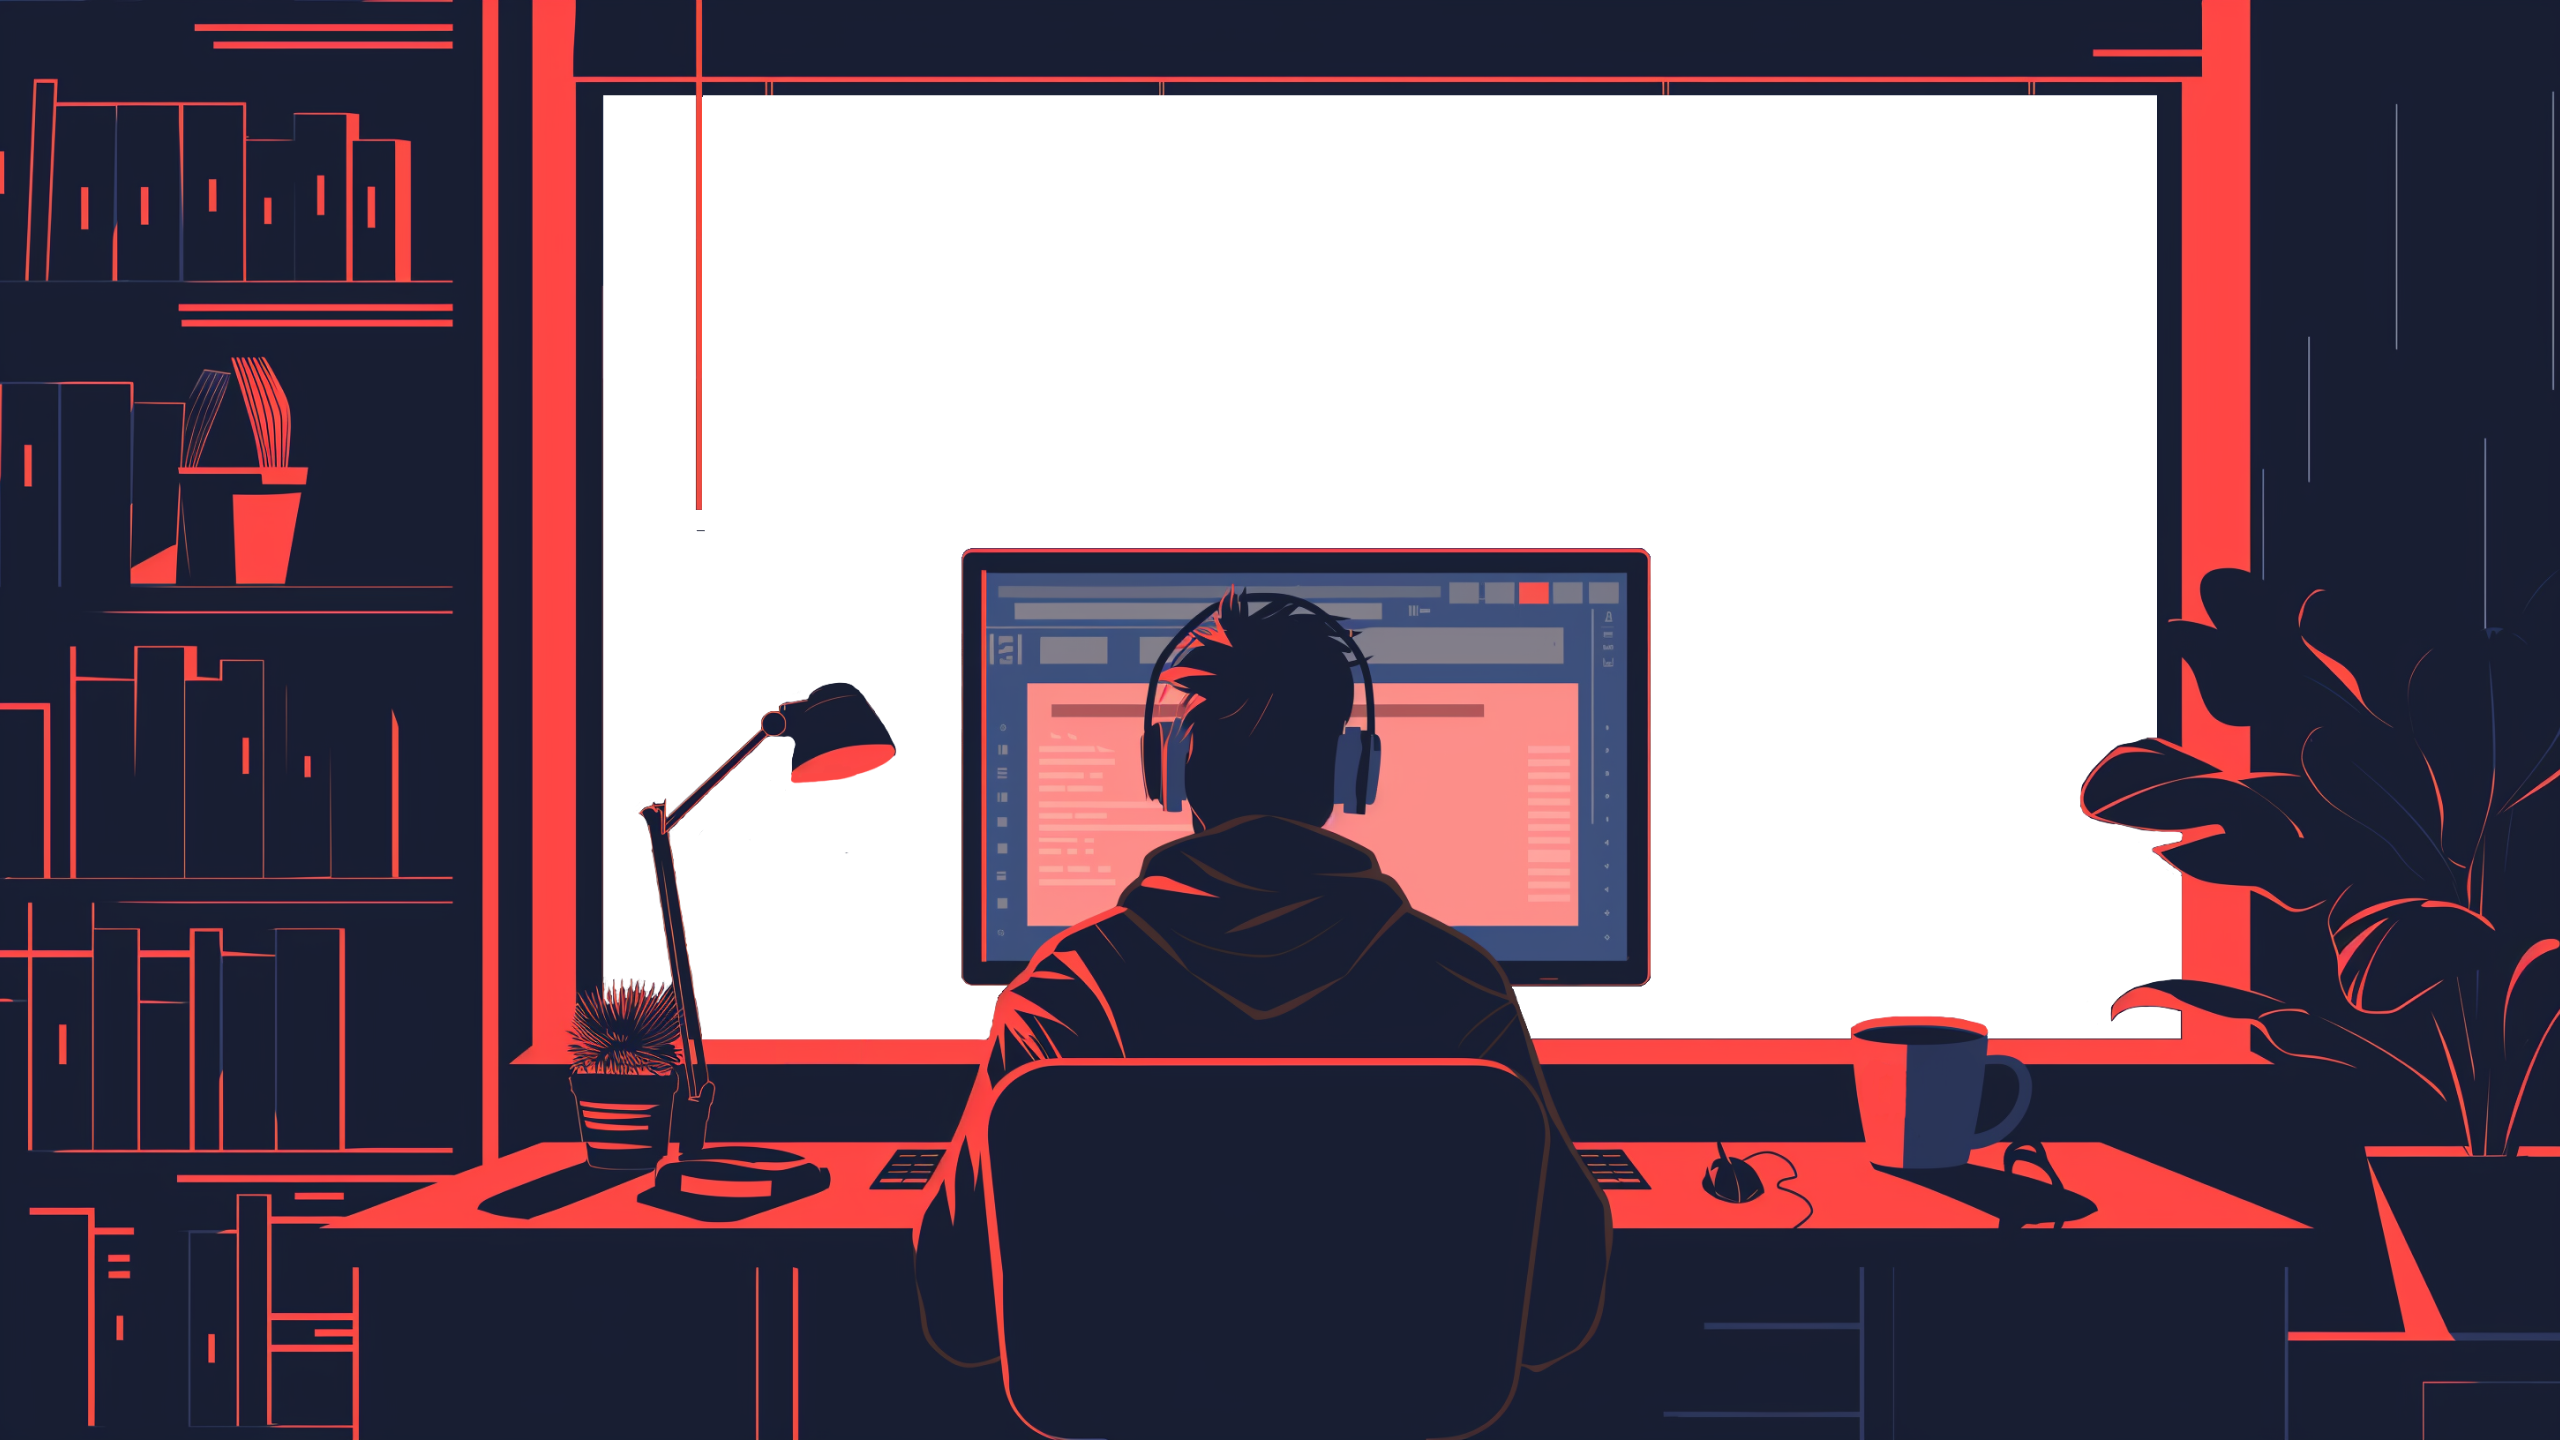
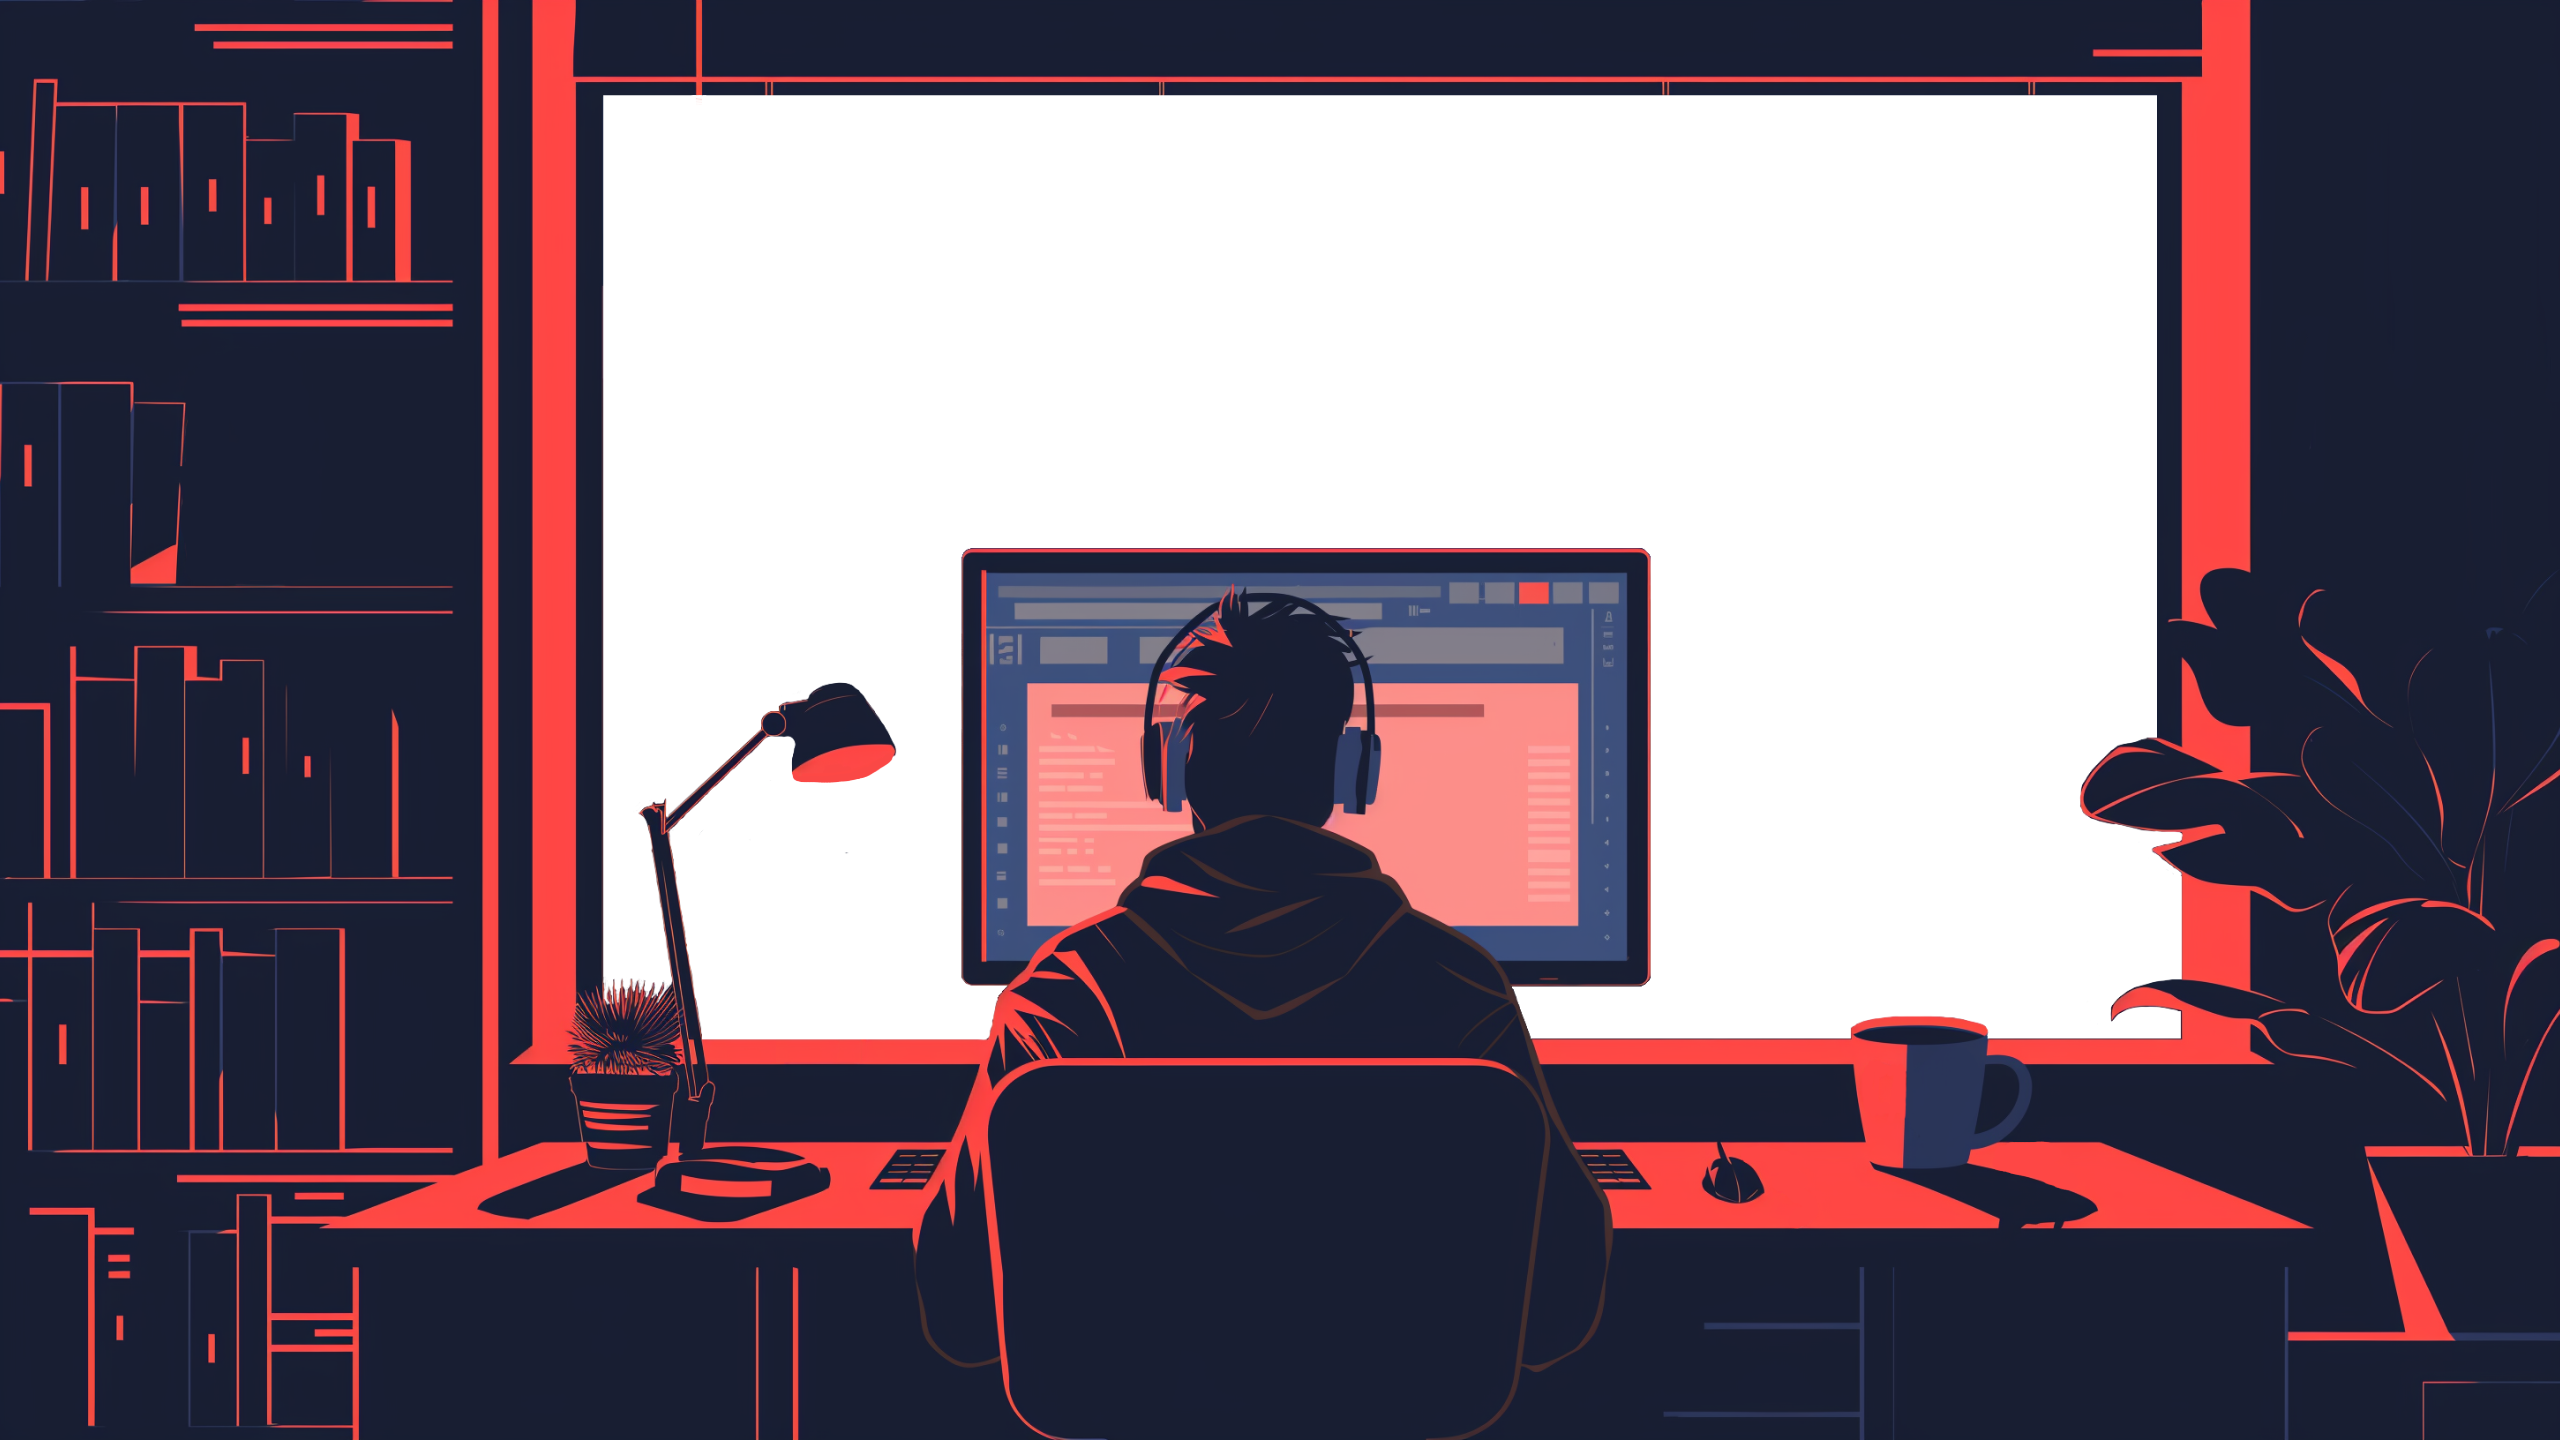
rain effect addition

Changed region(s): [[0.0625, 0.25, 0.125, 0.4062], [0.7812, 0.7812, 0.8125, 0.8125]]

diff --git a/components/hero.tsx b/components/hero.tsx
@@ -1,6 +1,5 @@
 "use client";
 
-import { Transition } from "@headlessui/react";
 import React from "react";
 import { useInView } from "react-intersection-observer";
 
@@ -14,36 +13,6 @@ export const Hero: React.FC = () => {
   return (
     <div ref={ref} className="flex h-screen min-h-screen flex-col">
       <HeroBackground />
-
-      <div className="absolute bottom-0 left-0 right-0 top-0 z-20 mx-auto flex flex-col items-center justify-center">
-        <div className="break-words rounded-lg bg-background/25 px-8 py-5 sm:px-32">
-          <div className="pb-5 text-center text-6xl font-light tracking-wider sm:text-8xl">
-            NIRO
-          </div>
-          <div className="h-0.5">
-            <Transition
-              show={inView}
-              enter="transition ease-in-out duration-300 transform"
-              enterFrom="scale-0"
-              enterTo="scale-100"
-              leave="transition ease-in-out duration-300 transform"
-              leaveFrom="scale-100"
-              leaveTo="scale-0"
-            >
-              <div
-                className="shadow-bg m-auto h-0.5 w-full border-b-primary/70 bg-primary"
-                style={{ boxShadow: "0 0 10px" }}
-              ></div>
-            </Transition>
-          </div>
-          <div className="pt-5 text-center text-3xl font-extralight tracking-wide sm:text-4xl">
-            Just another <br />
-            <span className="font-light text-primary">&#8217;&#8217;</span>
-            Developer
-            <span className="font-light text-primary">&#8217;&#8217;</span>
-          </div>
-        </div>
-      </div>
     </div>
   );
 };

diff --git a/components/hero-background.tsx b/components/hero-background.tsx
@@ -3,23 +3,25 @@ import { ScrollContext } from "@/lib/scroll-observer";
 import Image from "next/image";
 import { useContext, useEffect, useRef } from "react";
 import { useInView } from "react-intersection-observer";
+import { Rain } from "./rain";
 
 export default function HeroBackground() {
   const { ref, inView, entry } = useInView({
     threshold: 0
   });
-  const { hero_foreground_blur, hero_background_blur } = blur_data;
+  const { hero_foreground_blur } = blur_data;
 
   const parallaxContainer = useRef(null);
   const { scrollY } = useContext(ScrollContext);
   useEffect(() => {
     if (!parallaxContainer.current) return;
     const background: HTMLDivElement = parallaxContainer.current;
-    background.style.transform = `translate3d(0, -${scrollY * 0.15}px, 0)`;
+    background.style.transform = `translate3d(0, -${scrollY * 0.2}px, 0)`;
   }, [scrollY]);
 
   return (
-    <div className="relative h-full" ref={ref}>
+    <div className="relative flex h-full justify-center" ref={ref}>
+      <Rain />
       <Image
         src={"/images/hero/hero-foreground.png"}
         placeholder="blur"
@@ -32,10 +34,9 @@ export default function HeroBackground() {
       <Image
         src={"/images/hero/hero-city-background.jpg"}
         ref={parallaxContainer}
-        className="-z-10 object-cover"
-        placeholder="blur"
-        blurDataURL={hero_background_blur}
         fill
+        quality={50}
+        className="z-0 object-cover"
         alt="hero"
       />
     </div>

diff --git a/components/nav/nav.tsx b/components/nav/nav.tsx
@@ -35,7 +35,12 @@ const Navbar: React.FC = () => {
   ];
   return (
     <div
-      className={`fixed z-50 flex w-1/2 transform flex-col justify-between pt-5 transition-all duration-500 ${scrollY > 400 ? "translate-x-full items-end gap-2" : "translate-x-1/2 items-center gap-5"}`}
+      className={`fixed z-50 flex w-4/5 transform flex-col justify-between pt-5 transition-all duration-500 lg:w-1/2
+      ${
+        scrollY > 400
+          ? "translate-x-full items-end gap-2"
+          : "translate-x-4/5 items-center gap-5 lg:translate-x-1/2 "
+      }`}
     >
       {/* Logo */}
       <div
@@ -52,13 +57,13 @@ const Navbar: React.FC = () => {
         </Link>
       </div>
       <div
-        className={`rounded-br-xl rounded-tl-xl border-y  transition-colors duration-500 ${
+        className={`rounded-br-xl rounded-tl-xl border-y transition-colors duration-500 ${
           scrollY > 400
             ? "border-y-primary/50 text-xl md:bg-background/50 "
             : "border-y-primary/75 text-2xl font-normal md:bg-background "
         }`}
       >
-        <div className="z-0 hidden pe-8 md:grid md:grid-cols-5 md:justify-items-end md:gap-7 md:py-3">
+        <div className="hidden pe-8 md:grid md:grid-cols-5 md:justify-items-end md:gap-7 md:py-3">
           {header_components.map((link) =>
             link.subPages == undefined ? (
               <NavLink key={link.title} title={link.title} href={link.href} />

diff --git a/components/rain.tsx b/components/rain.tsx
@@ -1,0 +1,32 @@
+"use client";
+import "@/styles/rain.css";
+import React, { useEffect, useRef } from "react";
+function randRange(min: number, max: number) {
+  return Math.floor(Math.random() * (max - min + 1)) + min;
+}
+export const Rain: React.FC = () => {
+  const rainContainer = useRef<HTMLDivElement | null>(null);
+  const nbDrop = 100;
+  useEffect(() => {
+    if (rainContainer.current) {
+      for (let i = 1; i < nbDrop; i++) {
+        const dropLeft = randRange(200, 1800);
+        const dropTop = randRange(-1300, 800);
+
+        const drop = document.createElement("div");
+        drop.className = "drop";
+        drop.id = `drop${i}`;
+        drop.style.left = `${dropLeft}px`;
+        drop.style.top = `${dropTop}px`;
+
+        rainContainer.current.appendChild(drop);
+      }
+    }
+  }, []);
+
+  return (
+    <div className="z-10 h-full w-full">
+      <div className="rain h-full w-full" ref={rainContainer}></div>
+    </div>
+  );
+};

diff --git a/app/page.tsx b/app/page.tsx
@@ -1,19 +1,20 @@
-import { AboutMe } from "@/components/about-me";
-import { CurrentStack } from "@/components/current-stack";
 import { Hero } from "@/components/hero";
-import { LatestProjects } from "@/components/latest-projects";
 
 export default function Home() {
   return (
     <main>
       <Hero />
+      <div className="z-20 min-h-screen">a</div>
+      <div className="min-h-screen bg-secondary">b</div>
+      <div className="min-h-screen bg-primary">c</div>
+      {/* <Hero />
       <div className="min-h-screen bg-gradient-to-b from-slate-900 via-slate-900 to-primary/50">
         <AboutMe />
       </div>
       <div className="min-h-screen ">
         <LatestProjects />
       </div>
-      <CurrentStack />
+      <CurrentStack /> */}
     </main>
   );
 }

diff --git a/app/layout.tsx b/app/layout.tsx
@@ -1,4 +1,3 @@
-import Navbar from "@/components/nav/nav";
 import ScrollObserver from "@/lib/scroll-observer";
 import "@/styles/globals.css";
 import "@/styles/prism-coldark-dark.css";
@@ -24,7 +23,7 @@ export default function RootLayout({
       <ScrollObserver>
         <StrictMode>
           <body className={`scroll-smooth bg-background ${inter.className}`}>
-            <Navbar />
+            {/* <Navbar /> */}
             {children}
             <Toaster />
           </body>

diff --git a/styles/rain.css b/styles/rain.css
@@ -1,0 +1,18 @@
+.drop {
+  background: linear-gradient(
+    to bottom,
+    rgba(13, 52, 58, 1) 0%,
+    rgba(255, 255, 255, 0.6) 100%
+  );
+  width: 1px;
+  height: 89px;
+  position: absolute;
+  bottom: 200px;
+  animation: fall 1.15s linear infinite;
+}
+
+@keyframes fall {
+  to {
+    margin-top: 1100px;
+  }
+}

diff --git a/data/header-components.ts b/data/header-components.ts
@@ -4,7 +4,7 @@ const header_components: {
   subPages?: { title: string; href: string }[];
 }[] = [
   { title: "Home", href: "/#" },
-  { title: "About me", href: "/#about" },
+  { title: "About", href: "/#about" },
   { title: "Projects", href: "/#projects" },
   {
     title: "Stack",
